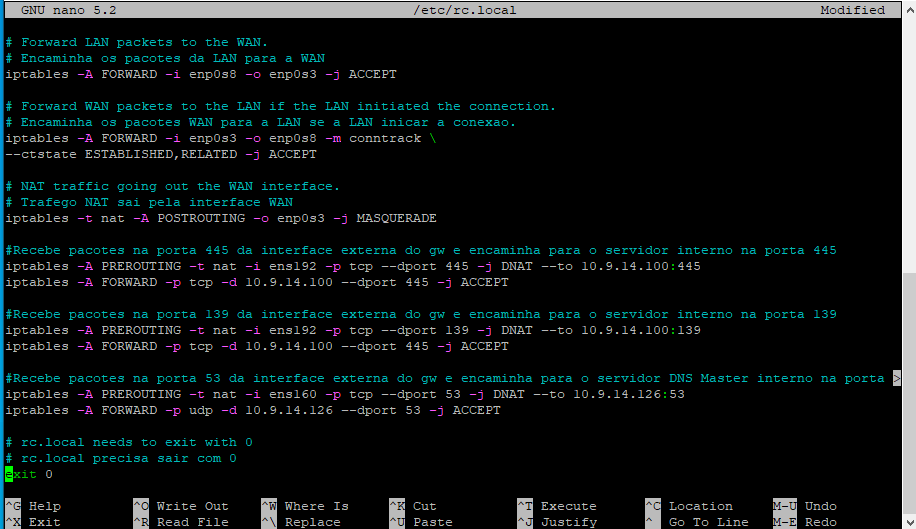
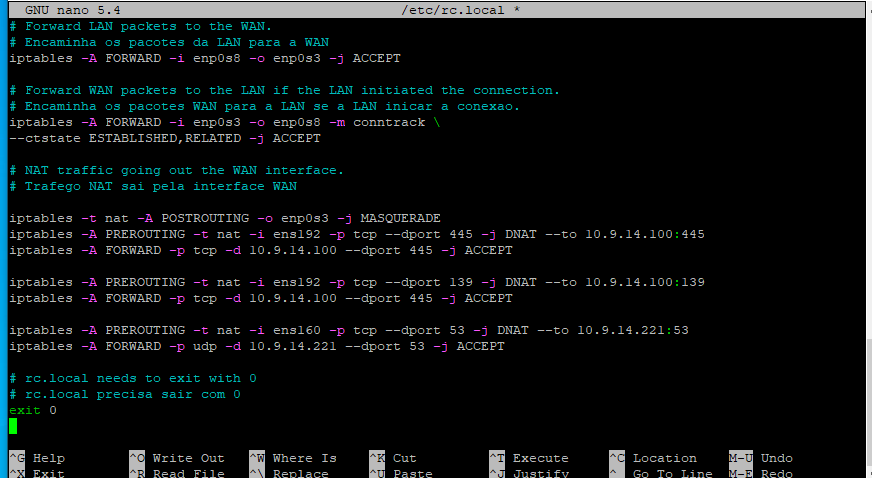
different things

diff --git a/Passo a Passo/3º parte/Readme.md b/Passo a Passo/3º parte/Readme.md
@@ -1,3 +1,67 @@
 # Configuração de um servidor de gateway com Iptables/NAT
+## CONFIGURAÇÃO SAMBA
 
-## 13º - 
+## 13º - Faça o update primeiro, e em seguida a instalação do samba
+
+````
+sudo apt update
+````
+
+````
+sudo apt install samba
+````
+## 14º - Verifique se o samba esta indo
+````
+ou,
+whereis samba
+
+ou,
+sudo systemctl status smbd
+
+ou,
+netstat -an | grep LISTEN
+````
+
+## 15º - Fazer backup do arquivo de configuração do samba
+
+````
+sudo cp /etc/samba/smb.conf{,.backup}
+````
+
+## 15º - Verificar se foi feito mesmo o backuo do arquivo e criar um arquivo novo somente com os comandos necessários
+
+````
+ls -la /etc/samba
+````
+
+````
+sudo bash -c 'grep -v -E "^#|^;" /etc/samba/smb.conf.backup | grep . > /etc/samba/smb.conf'
+````
+
+````
+sudo nano /etc/samba/smb.conf
+````
+
+## 16º - Editar arquivo digitado anteriormente (/etc/samba/smb.conf)
+
+### Adicionar o que esta escrito abaixo no diretorio [global]:
+
+````
+interfaces = 127.0.0.1/8 ens160 ens192
+````
+
+### Adicionar também a parte do diretório [publico] no final do arquivo
+
+````
+[public]
+   comment = public anonymous access
+   path = /samba/public
+   browsable =yes
+   create mask = 0660
+   directory mask = 0771
+   writable = yes
+   guest ok = no
+   valid users = @sambashare
+````
+
+

diff --git a/Passo a Passo/2º parte/Readme.md b/Passo a Passo/2º parte/Readme.md
@@ -116,8 +116,8 @@ iptables -A FORWARD -p tcp -d 10.9.14.100 –-dport 445 -j ACCEPT
 iptables -A PREROUTING -t nat -i ens192 -p tcp –-dport 139 -j DNAT –-to 10.9.14.100:139
 iptables -A FORWARD -p tcp -d 10.9.14.100 –-dport 445 -j ACCEPT
 
-iptables -A PREROUTING -t nat -i ens160 -p tcp –-dport 53 -j DNAT –-to 10.9.14.126:53
-iptables -A FORWARD -p udp -d 10.9.14.126 –-dport 53 -j ACCEPT
+iptables -A PREROUTING -t nat -i ens160 -p tcp –-dport 53 -j DNAT –-to 10.9.14.221:53
+iptables -A FORWARD -p udp -d 10.9.14.221 –-dport 53 -j ACCEPT
 ````
 
 ![10](https://github.com/MNahVR/Sred/blob/main/Galeria/10.png)
